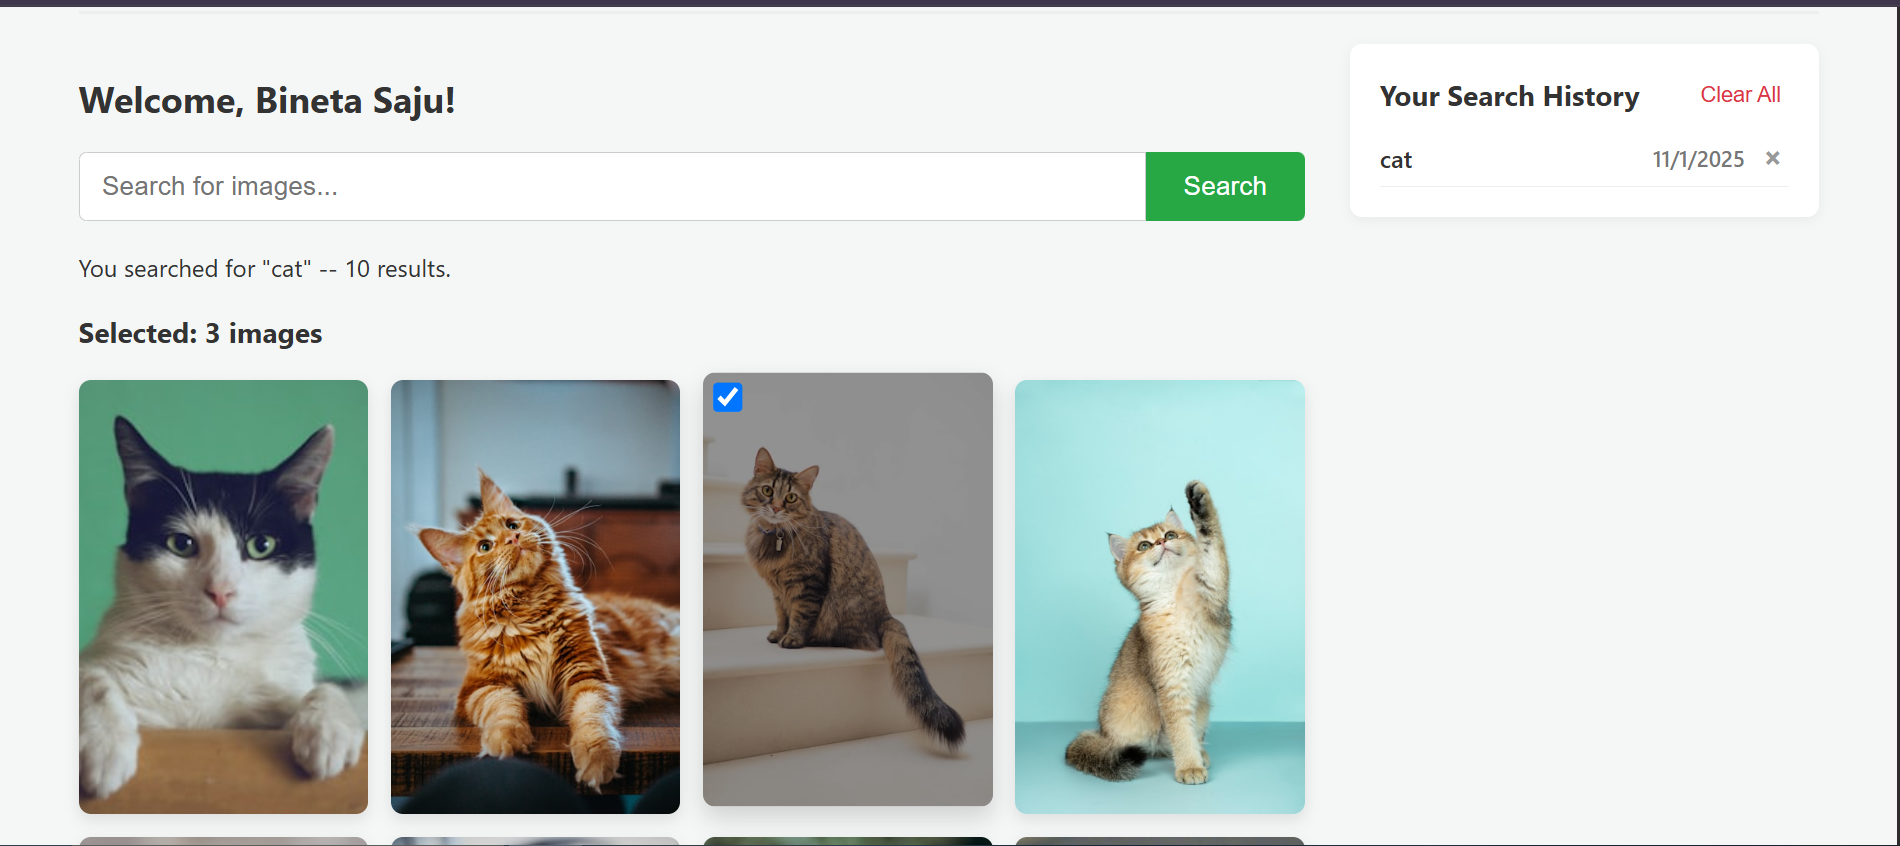
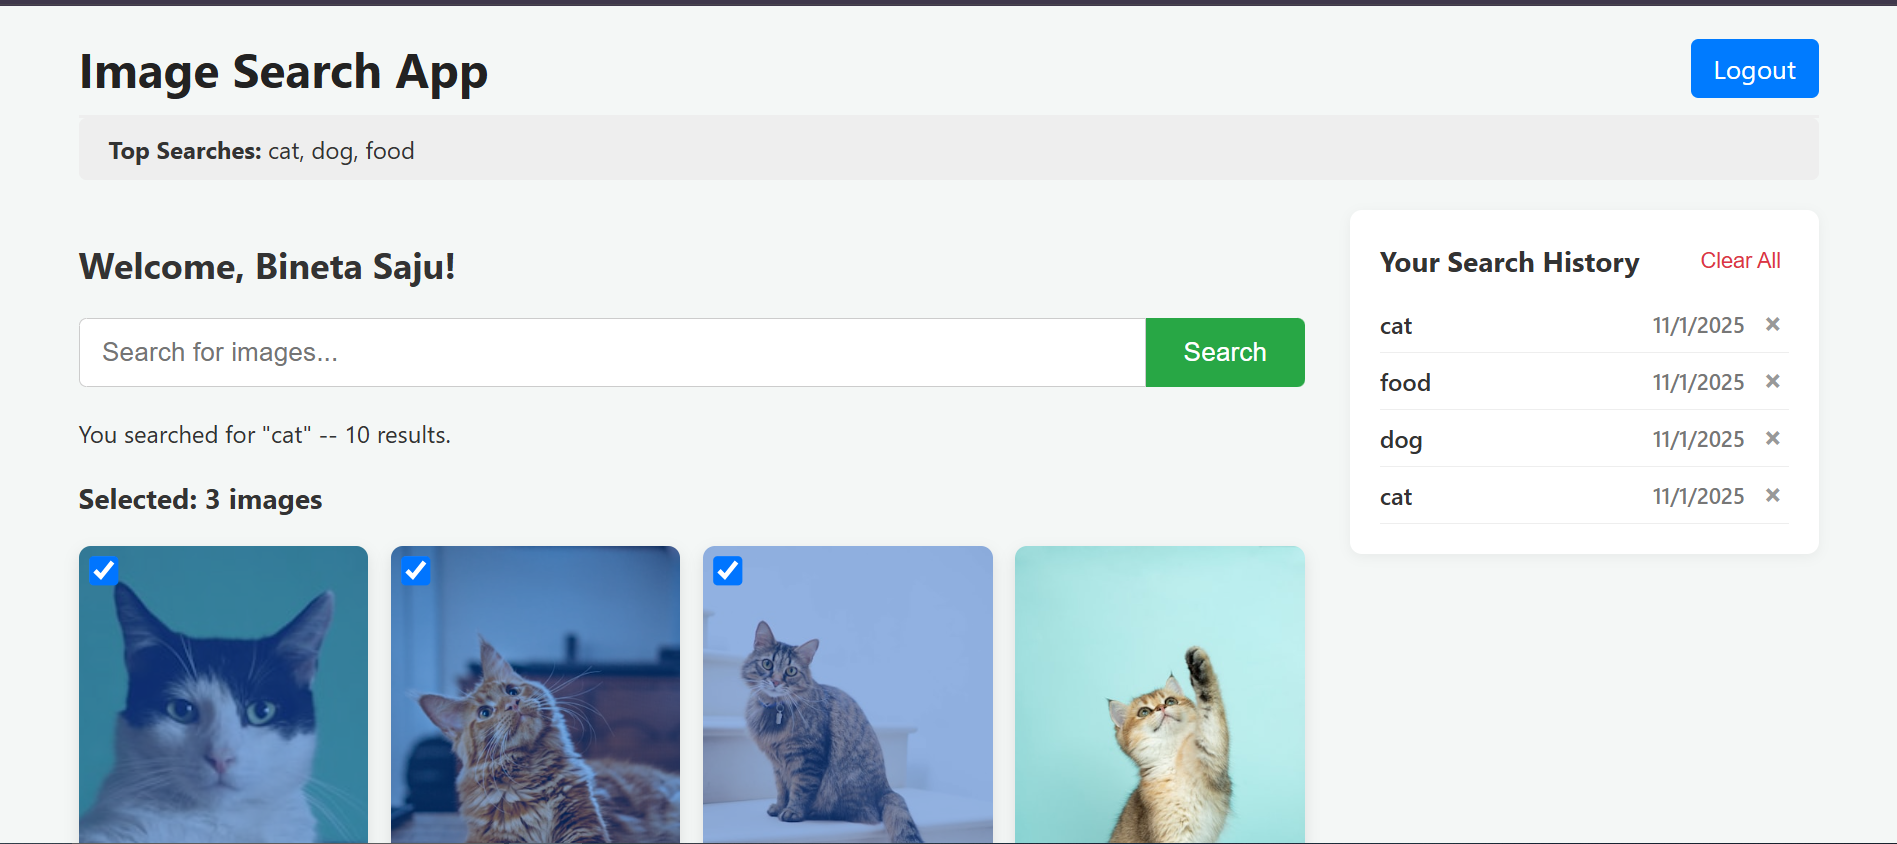
feat: Add dynamic theme, collections, download, and pagination

diff --git a/server/routes/searchRoutes.js b/server/routes/searchRoutes.js
@@ -7,14 +7,13 @@ const Search = mongoose.model('searches');
 
 module.exports = (app) => {
   // --- 1. Get Top 5 Searches (Public) ---
-  // This uses a complex MongoDB query called "aggregation"
   app.get('/api/top-searches', async (req, res) => {
     try {
       const topSearches = await Search.aggregate([
-        { $group: { _id: '$term', count: { $sum: 1 } } }, // Group by term and count occurrences
-        { $sort: { count: -1 } }, // Sort by count (most popular first)
-        { $limit: 5 }, // Take only the top 5
-        { $project: { _id: 0, term: '$_id' } }, // Reformat the output
+        { $group: { _id: '$term', count: { $sum: 1 } } },
+        { $sort: { count: -1 } },
+        { $limit: 5 },
+        { $project: { _id: 0, term: '$_id' } },
       ]);
       res.send(topSearches.map((item) => item.term));
     } catch (err) {
@@ -27,8 +26,8 @@ module.exports = (app) => {
   app.get('/api/history', requireAuth, async (req, res) => {
     try {
       const history = await Search.find({ _user: req.user.id })
-        .sort({ timestamp: -1 }) // Newest first
-        .limit(20); // Get the 20 most recent
+        .sort({ timestamp: -1 })
+        .limit(20);
       res.send(history);
     } catch (err) {
       console.error('Error fetching history:', err);
@@ -36,62 +35,55 @@ module.exports = (app) => {
     }
   });
 
-  // --- 3. Clear User's Personal History (Protected) ---
+  // --- 3. Clear ALL User History (Protected) ---
   app.delete('/api/history', requireAuth, async (req, res) => {
     try {
-      // Find all searches for this user and delete them
       await Search.deleteMany({ _user: req.user.id });
-
-      // Send back an empty array to confirm
       res.send([]);
     } catch (err) {
       console.error('Error clearing history:', err);
       res.status(500).send({ error: 'Error clearing history' });
     }
   });
-// --- 3b. Delete ONE History Item (Protected) ---
-app.delete('/api/history/:id', requireAuth, async (req, res) => {
-  try {
-    const searchId = req.params.id;
 
-    // Find the item and make sure it belongs to the logged-in user
-    const item = await Search.findOne({ _id: searchId, _user: req.user.id });
+  // --- 4. Delete ONE History Item (Protected) ---
+  app.delete('/api/history/:id', requireAuth, async (req, res) => {
+    try {
+      const searchId = req.params.id;
+      const item = await Search.findOne({ _id: searchId, _user: req.user.id });
 
-    if (!item) {
-      return res.status(404).send({ error: 'History item not found' });
+      if (!item) {
+        return res.status(404).send({ error: 'History item not found' });
+      }
+
+      await Search.deleteOne({ _id: searchId, _user: req.user.id });
+      res.send({ success: true });
+    } catch (err) {
+      res.status(500).send({ error: 'Error deleting history item' });
     }
+  });
 
-    // Delete it
-    await Search.deleteOne({ _id: searchId, _user: req.user.id });
-
-    res.send({ success: true });
-  } catch (err) {
-    res.status(500).send({ error: 'Error deleting history item' });
-  }
-});
-
-  // --- 4. Perform a Search (Protected) ---
+  // --- 5. Perform a Search (Protected) ---
   app.post('/api/search', requireAuth, async (req, res) => {
-    // This line was missing! We need to tell the server
-    // to expect a JSON body.
-    // Wait... this should be in server.js. Let's assume it is.
-    const { term } = req.body;
+    const { term, page = 1 } = req.body;
 
     if (!term) {
       return res.status(422).send({ error: 'A search term is required' });
     }
 
-    // 1. Save the search to our database
-    try {
-      const search = new Search({
-        term,
-        _user: req.user.id,
-        timestamp: new Date(),
-      });
-      await search.save();
-    } catch (dbErr) {
-      console.error('DB SAVE ERROR:', dbErr.message);
-      // We'll just log the error but still let the user search
+    // 1. Save the search (only if it's the first page)
+    if (page === 1) {
+      try {
+        const search = new Search({
+          term,
+          _user: req.user.id,
+          timestamp: new Date(),
+        });
+        await search.save();
+      } catch (dbErr) {
+        console.error('DB SAVE ERROR:', dbErr.message);
+        // Don't block the search if DB save fails, just log it
+      }
     }
 
     // 2. Call the Unsplash API
@@ -101,6 +93,8 @@ app.delete('/api/history/:id', requireAuth, async (req, res) => {
         {
           params: {
             query: term,
+            page: page,
+            per_page: 12,
           },
           headers: {
             Authorization: `Client-ID ${process.env.UNSPLASH_ACCESS_KEY}`,
@@ -108,10 +102,23 @@ app.delete('/api/history/:id', requireAuth, async (req, res) => {
         }
       );
 
-      // 3. Send the image results back to our client
-      res.send(unsplashResponse.data.results);
+      // 3. Send a curated list of properties to the client
+      const images = unsplashResponse.data.results.map((img) => ({
+        id: img.id,
+        color: img.color, // For the dynamic theme
+        alt_description: img.alt_description,
+        urls: {
+          small: img.urls.small,
+        },
+        links: {
+          download_location: img.links.download_location, // For the download
+        },
+      }));
+
+      res.send(images);
     } catch (unsplashErr) {
       console.error('UNSPLASH ERROR:', unsplashErr.message);
+      // This is the only other place a response is sent.
       res.status(500).send({ error: 'Error fetching images from Unsplash' });
     }
   });

diff --git a/server/routes/collectionRoutes.js b/server/routes/collectionRoutes.js
@@ -1,0 +1,65 @@
+const mongoose = require('mongoose');
+const requireAuth = require('../middleware/requireAuth');
+const Collection = mongoose.model('collections');
+
+module.exports = (app) => {
+  // 1. Get all collections for the logged-in user
+  app.get('/api/collections', requireAuth, async (req, res) => {
+    try {
+      const collections = await Collection.find({ _user: req.user.id }).sort({
+        createdAt: -1,
+      });
+      res.send(collections);
+    } catch (err) {
+      res.status(500).send({ error: 'Error fetching collections' });
+    }
+  });
+
+  // 2. Save a new collection
+  app.post('/api/collections', requireAuth, async (req, res) => {
+    const { name, images } = req.body;
+
+    if (!name || !images || images.length === 0) {
+      return res.status(422).send({ error: 'Missing name or images' });
+    }
+
+    // We re-format the image data to only store what we need
+    const formattedImages = images.map((img) => ({
+      id: img.id,
+      url_small: img.urls.small,
+      alt_description: img.alt_description,
+    }));
+
+    try {
+      const collection = new Collection({
+        name,
+        images: formattedImages,
+        _user: req.user.id,
+      });
+      await collection.save();
+      res.send(collection);
+    } catch (err) {
+      res.status(500).send({ error: 'Error saving collection' });
+    }
+  });
+
+  // 3. Delete a collection
+  app.delete('/api/collections/:id', requireAuth, async (req, res) => {
+    try {
+      const collectionId = req.params.id;
+      const collection = await Collection.findOne({
+        _id: collectionId,
+        _user: req.user.id,
+      });
+
+      if (!collection) {
+        return res.status(404).send({ error: 'Collection not found' });
+      }
+
+      await Collection.deleteOne({ _id: collectionId, _user: req.user.id });
+      res.send({ success: true });
+    } catch (err) {
+      res.status(500).send({ error: 'Error deleting collection' });
+    }
+  });
+};

diff --git a/server/routes/downloadRoutes.js b/server/routes/downloadRoutes.js
@@ -1,0 +1,49 @@
+const axios = require('axios');
+require('dotenv').config();
+const requireAuth = require('../middleware/requireAuth');
+const { URL } = require('url'); // Import the URL class
+
+module.exports = (app) => {
+  app.get('/api/download', requireAuth, async (req, res) => {
+    const { url } = req.query;
+
+    if (!url) {
+      return res.status(400).send({ error: 'Missing download URL' });
+    }
+
+    try {
+      // 1. Call the Unsplash tracking URL (as before)
+      const trackResponse = await axios.get(url, {
+        headers: {
+          Authorization: `Client-ID ${process.env.UNSPLASH_ACCESS_KEY}`,
+        },
+      });
+
+      // 2. Unsplash responds with the real image URL
+      const realImageUrl = trackResponse.data.url;
+
+      // 3. (NEW) Get the file name from the URL
+      const parsedUrl = new URL(realImageUrl);
+      // Create a filename like "photo-12345.jpg"
+      const filename = `${parsedUrl.pathname.split('/')[1] || 'unsplash-image'}.jpg`;
+
+      // 4. (NEW) Fetch the actual image as a stream
+      const imageStream = await axios({
+        method: 'get',
+        url: realImageUrl,
+        responseType: 'stream',
+      });
+
+      // 5. (NEW) Send the image to the user as a file
+      res.setHeader('Content-Type', 'image/jpeg');
+      res.setHeader('Content-Disposition', `attachment; filename=${filename}`);
+
+      // "Pipe" the image from Unsplash to the user
+      imageStream.data.pipe(res);
+
+    } catch (err) {
+      console.error('UNSPLASH DOWNLOAD ERROR:', err.message);
+      res.status(500).send({ error: 'Error downloading image' });
+    }
+  });
+};

diff --git a/server/services/passport.js b/server/services/passport.js
@@ -1,5 +1,6 @@
 const passport = require('passport');
 const GoogleStrategy = require('passport-google-oauth20').Strategy;
+const GitHubStrategy = require('passport-github2').Strategy; // <-- ADD THIS
 const mongoose = require('mongoose');
 require('dotenv').config();
 
@@ -45,6 +46,33 @@ passport.use(
       }).save();
 
       // 4. Call 'done' with the new user
+      done(null, user);
+    }
+  )
+);
+// ... (your GoogleStrategy is here) ...
+
+// --- ADD THIS NEW BLOCK ---
+passport.use(
+  new GitHubStrategy(
+    {
+      clientID: process.env.GITHUB_CLIENT_ID,
+      clientSecret: process.env.GITHUB_CLIENT_SECRET,
+      callbackURL: '/auth/github/callback',
+      proxy: true,
+    },
+    async (accessToken, refreshToken, profile, done) => {
+      // This logic is the same as the Google one
+      const existingUser = await User.findOne({ googleId: profile.id }); // Using googleId to store any provider's ID
+
+      if (existingUser) {
+        return done(null, existingUser);
+      }
+
+      const user = await new User({
+        googleId: profile.id, // We're re-using the googleId field.
+        displayName: profile.displayName || profile.username,
+      }).save();
       done(null, user);
     }
   )

diff --git a/server/server.js b/server/server.js
@@ -9,7 +9,8 @@ require('dotenv').config();
 connectDB();
 // We must load the models BEFORE passport uses them
 require('./models/User');
-require('./models/Search'); // <-- NEW: Load the Search model
+require('./models/Search');
+require('./models/Collection'); // <-- THIS IS THE MISSING LINE
 
 // --- PASSPORT & SESSION ---
 // Load passport config (this runs the code in passport.js)
@@ -19,7 +20,7 @@ const app = express();
 
 // --- MIDDLEWARE ---
 // This middleware parses incoming JSON requests (like POST /api/search)
-app.use(express.json()); // <-- NEW
+app.use(express.json());
 
 // Tell Express to use sessions
 app.use(
@@ -37,8 +38,9 @@ app.use(passport.session());
 // --- ROUTES ---
 // We call our route functions and pass in the 'app' object
 require('./routes/authRoutes')(app);
-require('./routes/searchRoutes')(app); // <-- NEW: Use the search routes
-
+require('./routes/searchRoutes')(app);
+require('./routes/collectionRoutes')(app); 
+require('./routes/downloadRoutes')(app); 
 // A simple test route
 app.get('/', (req, res) => {
   res.send('API is running...');

diff --git a/server/routes/authRoutes.js b/server/routes/authRoutes.js
@@ -19,6 +19,18 @@ module.exports = (app) => {
     }
   );
 
+// 1. The route to start the GitHub login flow
+app.get('/auth/github', passport.authenticate('github', { scope: ['read:user'] }));
+
+// 2. The callback route that GitHub redirects to
+app.get(
+  '/auth/github/callback',
+  passport.authenticate('github'),
+  (req, res) => {
+    // Successful login, redirect to the CLIENT
+    res.redirect('http://localhost:3000');
+  }
+);
   // 3. A route to check who is logged in
   app.get('/api/current_user', (req, res) => {
     res.send(req.user); // req.user is added by Passport

diff --git a/server/models/Collection.js b/server/models/Collection.js
@@ -1,0 +1,18 @@
+const mongoose = require('mongoose');
+const { Schema } = mongoose;
+
+// We'll store a few key details about each image
+const ImageSchema = new Schema({
+  id: String, // The Unsplash ID
+  url_small: String,
+  alt_description: String,
+});
+
+const collectionSchema = new Schema({
+  name: String,
+  _user: { type: Schema.Types.ObjectId, ref: 'users' },
+  images: [ImageSchema], // An array of images
+  createdAt: { type: Date, default: Date.now },
+});
+
+mongoose.model('collections', collectionSchema);
